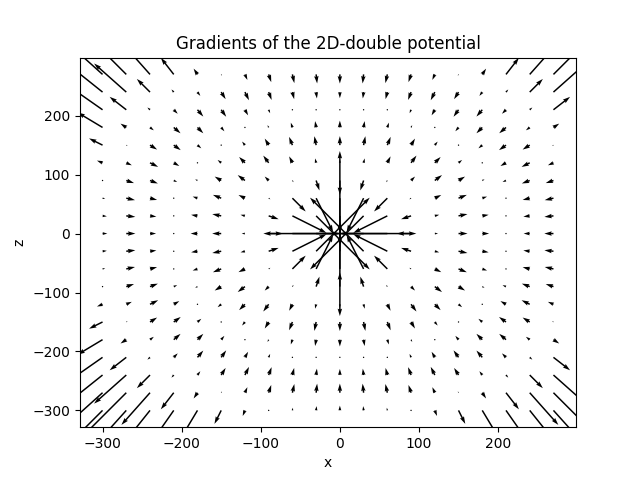
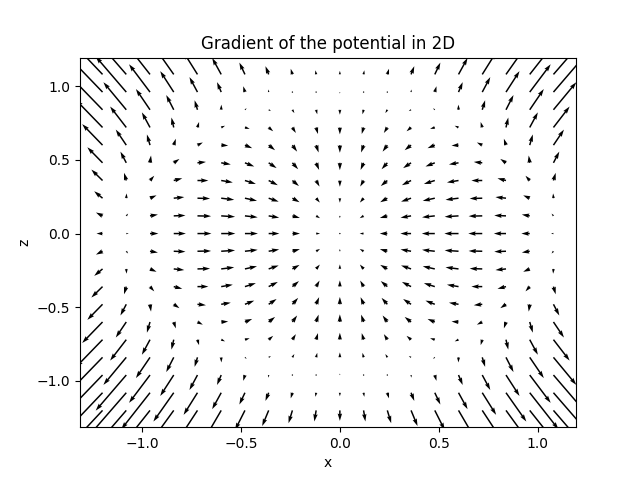
Finished experiments, updated double well potential in 2d

diff --git a/src/metastability.py b/src/metastability.py
@@ -2,6 +2,7 @@ import numpy as np
 import random
 import math
 import logging
+import sys
 import time
 
 
@@ -12,7 +13,6 @@ class DoubleWellDynamics(object):
     dX_t = - nabla V(X_t)dt + \sqrt(2 \ beta ^-1) dW_t
     """
     def __init__(self, h=1, w=100, sig=100, beta=100):
-
         # meta vars
         assert(h >= 0 and w >= 0)
         self.h = h
@@ -29,11 +29,9 @@ class DoubleWellDynamics(object):
             return self.h * (1 - (abs(x) - self.r0 - self.w) ** 2 / self.w**2) ** 2  
         
         elif dim == 2:
+            # eq page 45 book
             assert(isinstance(x, list))
-            r = sum([i**2 for i in x]) ** (1/2)
-
-            # page 44 book
-            return self.h * (1 - (r - self.r0 - self.w) ** 2 / self.w**2) ** 2
+            return 1/6 * (4 * (1 - x[0] **2 - x[1] **2) ** 2 + 2 * (x[0] ** 2 - 2) ** 2 + ((x[0] + x[1]) ** 2 - 1) ** 2 + ((x[0] - x[1]) ** 2 - 1) **2)
         else:
             raise NotImplementedError("potential: variable 'dim' is implemented for dimension 1 or 2 only.")
 
@@ -45,15 +43,13 @@ class DoubleWellDynamics(object):
         if dim == 1:
             return 2 * self.h * (1 - (abs(x) - self.r0 - self.w) ** 2 / (self.w **2) ) * (-2) * (abs(x) - self.r0 - self.w) / (self.w ** 2) * 2
         elif dim == 2:
-            r = sum([i**2 for i in x]) ** (1/2)
+            # eq page 45 book
+            partial_x = 1/6 * (-16 * (1 - x[0]**2 - x[1]**2) * x[0] + 8 * x[0] * (x[0] ** 2 - 2) + 4 * (x[0] + x[1]) * ((x[0] + x[1])**2 - 1) + 4 * (x[0] - x[1]) * ((x[0] - x[1])**2 - 1) 
+            )
+            partial_y = 1/6 * (-16 * (1 - x[0]**2 - x[1]**2) * x[1]  + 4 * (x[0] + x[1]) * ((x[0] + x[1])**2 - 1) - 4 * (x[0] - x[1]) * ((x[0] - x[1])**2 - 1) 
+            )
 
-            # dealing with derivative around r=0
-            if True:
-                grads = [2 * self.h * (1 - (r - self.r0 - self.w) ** 2 / self.w **2) * (-2) * (r - self.r0 - self.w) / (self.w ** 2) * 2 * x[i] / r for i in range(dim)]
-            else:
-                grads = [2 * self.h * (1 - (r - self.r0 - self.w) ** 2 / self.w **2) * (-2) * (r - self.r0 - self.w) / (self.w ** 2) * 2 * math.sqrt(x[i]) for i in range(dim)]
-
-            return np.array(grads)
+            return np.array([partial_x, partial_y])
         else:
             raise NotImplementedError("grad_potential: variable 'dim' is implemented for dimension 1 or 2 only.")
 
@@ -73,7 +69,7 @@ class DoubleWellDynamics(object):
             except:
                 raise AssertionError("run: only dynamics of dimension 1 and 2 are supported.")
 
-        logging.warning(f"run: running dynamics in dimension {dim}.")
+        logging.warning(f"run: running dynamics.")
 
         # run
         t = start_time
@@ -85,8 +81,8 @@ class DoubleWellDynamics(object):
             x = x_previous - self.grad_potential(dim, x_previous) * time_increment + cste * np.random.normal(0, math.sqrt(time_increment), size=dim)
             t += time_increment
 
-            print(f"x: {x}")
-            print(f"grad: {self.grad_potential(dim, x)}")
+            logging.debug(f"x: {x}")
+            logging.debug(f"grad: {self.grad_potential(dim, x)}")
 
             if dim == 2:
                 self.x.append((t, list(x)))
@@ -97,14 +93,14 @@ class DoubleWellDynamics(object):
         return np.array(self.x)
 
     def plot_1d(self, interval=50, plot_pot=True, plot_grad=True, plot_dynamics=True):
-        #plot potential 1D
+        # plot potential 1D
         if plot_pot == True:
             pot = [self.potential(dim=1, x=i) for i in range(-500, 500, 1)]
             plt.plot(pot)
             plt.title("Double well potential in 1D")
             plt.show()
 
-        #plot gradients 1D
+        # plot gradients 1D
         if plot_grad == True:
             grad_pot = [self.grad_potential(dim=1, x=i) for i in range(-500, 500, 1)]
             plt.plot(grad_pot)
@@ -169,19 +165,19 @@ class DoubleWellDynamics(object):
             plt.show()
 
         if plot_dynamics == True:
-            iterations = 1000000
+            start_pos = [0.1, 0.1]
+            iterations = 1000
             logging.warning(f"plot2d: simulation of {iterations} time steps about to start. This might take up to minute.")
             time.sleep(2)
-            dyn = obj.run([50, 50], iterations, time_increment=40)
+            dyn = obj.run(start_pos, iterations, time_increment=0.2)
             dyn = [i[1] for i in dyn]
             x, y = zip(*dyn)
             plt.plot(x,y)
             plt.title(f"Metastability for particle 2D")
             plt.show()
 
-
 if __name__ == "__main__":
     import matplotlib.pyplot as plt
     obj = DoubleWellDynamics()
-    obj.plot_1d(300)
-    obj.plot_2d(300)
+    obj.plot_1d(1.2, plot_pot=True, plot_grad=True)
+    obj.plot_2d(1.2, plot_pot=True, plot_grad=True)
